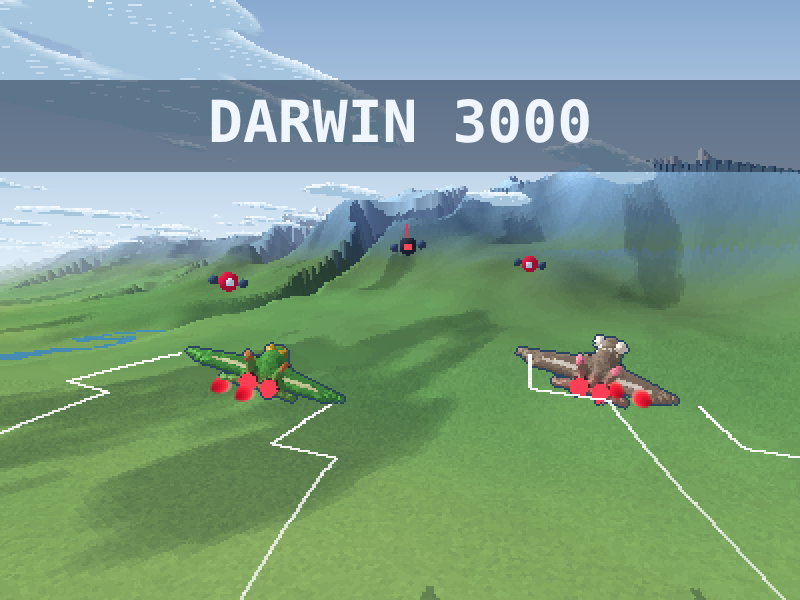
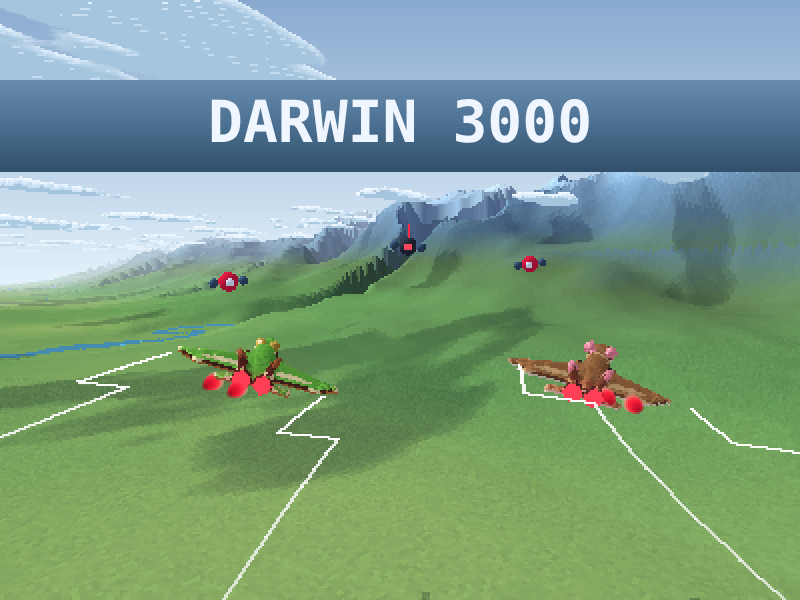
UI en gradientes azules, sin contornos; naves con los colores de los retratos

diff --git a/game.js b/game.js
@@ -319,27 +319,37 @@ const MATERIALS = [
   [58, 44, 34, 150, 122, 92],
 ];
 const NMAT = MATERIALS.length;
-// The flyers' own colours for body, markings, nose, eyes and engines: Darwin's frog is leaf
-// green with a brown snout and golden eyes; the monito is grey-brown and cream, with a pink
-// nose and black eyes.
+// The flyers' own colours, the same as their portraits': back, the line along its edge, trim,
+// eyes, engines, (the nozzles keep their glow,) the stripe down the side, and the belly.
+// Darwin's frog has a leaf-green back edged in cream, a dark brown stripe, an orange-brown
+// belly and golden eyes; the monito is brown with a tan edge, darker sides, a cream belly,
+// pink ears and nose, and black eyes.
 const SKINS = [
   [
-    [16, 50, 28, 104, 196, 86],
-    [118, 128, 84, 240, 244, 186],
-    [78, 42, 24, 196, 124, 70],
-    [30, 22, 8, 236, 186, 60],
-    [8, 14, 12, 52, 70, 56],
+    [34, 84, 30, 118, 196, 72],
+    [124, 118, 86, 236, 228, 180],
+    [72, 38, 22, 160, 92, 50],
+    [60, 40, 10, 232, 190, 84],
+    [20, 12, 10, 84, 46, 32],
+    0,
+    [34, 18, 14, 84, 46, 32],
+    [92, 52, 28, 206, 134, 72],
   ],
   [
-    [52, 42, 38, 182, 160, 138],
-    [132, 120, 110, 252, 246, 234],
-    [150, 64, 88, 255, 156, 176],
+    [72, 44, 28, 176, 122, 76],
+    [104, 80, 56, 216, 176, 126],
+    [128, 64, 84, 244, 150, 170],
     [4, 4, 8, 60, 60, 80],
-    [10, 10, 14, 64, 60, 66],
+    [14, 10, 10, 70, 50, 46],
+    0,
+    [50, 30, 20, 122, 78, 50],
+    [126, 118, 108, 248, 240, 224],
   ],
 ];
 const FIRE = 7;
 const MUD = 8;
+const SIDE = 7; // on a flyer these two are its stripe and its belly instead
+const BELLY = 8;
 const GLINT = [0, 4, 5, 6, 14, 3, 0, 0, 1]; // how strongly each catches a highlight
 const NLIT = 16;
 const NLV = 24;
@@ -624,14 +634,14 @@ function partAt(x, y, z, who) {
   const d = Math.abs(x);
   if (who) {
     if (inEll(d - 1.6, y - 8.5, z - 6.4, 1.3, 1.7, 1.3)) return GLASS; // eyes
-    if (inEll(d - 2.9, y - 13.5, z - 8.3, 1.5, 0.7, 1.6)) return PLUME; // ears
+    if (inEll(d - 2.9, y - 13.5, z - 8.3, 1.5, 0.7, 1.6)) return HEAD; // ears
     if (inEll(x, y - 2.4, z - 5, 0.9, 1.4, 0.8)) return HEAD; // nose
     if (inEll(x, y - 8.5, z - 5.2, 3.2, 6.2, 2.9)) return BODY; // head
     if (inEll(x, y - 42, z - 6.6, 1.3, 6.5, 1.2)) return BODY; // tail
     if (inEll(x, y - 16, z - 5, 3.2, 1.5, 2.9)) return PLUME; // collar
   } else {
     if (inEll(d - 1.8, y - 13.5, z - 7.1, 1.3, 2.1, 1.25)) return GLASS; // eyes
-    if (inEll(x, y - 4.5, z - 5, 1.25, 6.4, 1.15)) return HEAD; // snout
+    if (inEll(x, y - 4.5, z - 5, 1.25, 6.4, 1.15)) return BODY; // snout
   }
   if (inEll(x, y - 23, z - 5, 3.4, 21, 2.9)) return BODY;
   if (d > 3.4 && d < 5.6 && y > 18.5 && y < 23.5 && z > 2.5 && z < 5.5) return y < 19.5 ? ENGINE : BODY; // air intakes
@@ -730,7 +740,10 @@ function buildModel(who) {
         b.push(MPJ - y);
         c.push(z - MPK);
         w.push(y < 39 && z < 6 ? Math.max(0, Math.abs(x) - WING_ROOT) : 0);
-        col.push(v);
+        // the body is coloured like the animal: its back on what faces up, then the pale line,
+        // the stripe down its sides, and its belly underneath
+        const up = l < 0.5 ? 1 : nz / l;
+        col.push(v - BODY ? v : up > 0.5 ? BODY : up > 0.28 ? PLUME : up > -0.3 ? SIDE : BELLY);
         ni.push(q);
         ao.push(share > 0.5 ? 1 - Math.min(0.5, (share - 0.5) * 1.6) : 1 + Math.min(0.14, (0.5 - share) * 0.4));
         hot.push(Math.max(0, 1 - Math.hypot(Math.abs(x) - 3, y - 47, z - 4.5) / 9)); // how close to a burner: the fire lights it
@@ -1727,8 +1740,6 @@ const ZB = new Float32Array(BW * BH); // depth of what each pixel shows
 const PC = new Uint32Array(BW * BH); // a see-through cloud waiting over a pixel: its colour …
 const PA = new Uint8Array(BW * BH); // … and how much of it shows
 const YB = new Int16Array(BW); // per column: the ground has filled everything from here down
-const STAMP = new Uint32Array(BW * BH); // which flyer drew a pixel last (for outlines)
-let stampId = 0;
 const SJ = new Float32Array(16 * 6); // shadow casters this frame
 let nSJ = 0;
 let invMs = 1;
@@ -2061,7 +2072,7 @@ function drawTrails(f) {
 // square, nearest wins. Each is lit as part of a solid: by the sun, from the way its surface
 // faces; darker in the creases and wherever another part of the flyer stands in its light;
 // with a glint where the sun bounces towards the camera; and red from its own burners, near
-// them. Then a dark outline, so it reads over any ground.
+// them.
 const LV = new Float32Array(4096); // the sun on each direction a surface can face …
 const SP = new Float32Array(4096); // … and the glint there
 const STEP = new Float32Array(9);
@@ -2069,12 +2080,8 @@ let fx0 = 0;
 let fy0 = 0;
 let fv0 = 0;
 let fHalf = 0.5;
-let bx0 = 0;
-let bx1 = 0;
-let by0 = 0;
-let by1 = 0;
 
-function plotVoxel(ma, mb, mc, colour, mark) {
+function plotVoxel(ma, mb, mc, colour) {
   const sx = fx0 + ma * STEP[0] + mb * STEP[3] + mc * STEP[6];
   const sy = fy0 + ma * STEP[1] + mb * STEP[4] + mc * STEP[7];
   const dep = fv0 + ma * STEP[2] + mb * STEP[5] + mc * STEP[8];
@@ -2094,13 +2101,8 @@ function plotVoxel(ma, mb, mc, colour, mark) {
       if (ZB[p] <= dep) continue;
       ZB[p] = dep;
       FB[p] = colour;
-      STAMP[p] = mark;
     }
   }
-  if (xa < bx0) bx0 = xa;
-  if (xb > bx1) bx1 = xb;
-  if (ya < by0) by0 = ya;
-  if (yb > by1) by1 = yb;
 }
 
 // Which of a flyer's voxels have another part of it between them and the sun. The light's
@@ -2171,11 +2173,6 @@ function drawFlyer(f) {
     SP[q] = h > 0 ? Math.pow(h, 20) : 0;
   }
 
-  const id = ++stampId;
-  bx0 = BW;
-  bx1 = -1;
-  by0 = BH;
-  by1 = -1;
   const shade = f.shade;
   const flex = f.flex;
   const skin = (f.id + 1) * NMAT;
@@ -2186,22 +2183,7 @@ function drawFlyer(f) {
     let l = shade[i] ? (0.36 + 0.1 * LV[q]) * ao[i] * 15 : (0.36 + 0.64 * LV[q]) * ao[i] * 15 + SP[q] * GLINT[m];
     if (l > NLV - 1) l = NLV - 1;
     const c = JPAL[(skin + m) * NLV + (l | 0)];
-    plotVoxel(ma[i], mb[i], mc[i] + mw[i] * flex, hot[i] ? mix(c, colRed, (hot[i] * fire) | 0) : c, id);
-  }
-
-  // outline: any free pixel that touches the flyer
-  const ox0 = Math.max(1, bx0 - 1);
-  const oy0 = Math.max(1, by0 - 1);
-  const ox1 = Math.min(BW - 1, bx1 + 1);
-  const oy1 = Math.min(BH - 1, by1 + 1);
-  for (let y = oy0; y < oy1; y++) {
-    for (let x = ox0, p = y * BW + ox0; x < ox1; x++, p++) {
-      if (STAMP[p] === id || ZB[p] < fv0 - 20) continue;
-      if (STAMP[p - 1] === id || STAMP[p + 1] === id || STAMP[p - BW] === id || STAMP[p + BW] === id) {
-        FB[p] = colOutline;
-        if (ZB[p] > fv0) ZB[p] = fv0;
-      }
-    }
+    plotVoxel(ma[i], mb[i], mc[i] + mw[i] * flex, hot[i] ? mix(c, colRed, (hot[i] * fire) | 0) : c);
   }
 }
 
@@ -2477,16 +2459,15 @@ function glitch(amount) {
 
 const INK = pack(240, 246, 255);
 const DIM = pack(168, 200, 224);
-const PANEL = pack(16, 28, 48);
 const GOLD = pack(255, 214, 90);
 const WATER = pack(110, 180, 230);
 
-function box(x, y, w, h, colour, alpha) {
+function box(x, y, w, h, colour) {
   const x0 = Math.max(0, x | 0);
   const x1 = Math.min(BW, (x + w) | 0);
   const y1 = Math.min(BH, (y + h) | 0);
   for (let py = Math.max(0, y | 0); py < y1; py++) {
-    for (let p = py * BW + x0, e = py * BW + x1; p < e; p++) FB[p] = alpha ? mix(FB[p], colour, alpha) : colour;
+    for (let p = py * BW + x0, e = py * BW + x1; p < e; p++) FB[p] = colour;
   }
 }
 
@@ -2511,17 +2492,17 @@ function text(str, x, y, colour, size, align) {
   t.setOrigin((align || 0) / 2, 0.12).setPosition(x * PX, y * PX).setVisible(true);
 }
 
-// The crew's portraits, in pixel art, both in profile: Darwin's frog — a leaf-green back with
-// a pale edge, a dark stripe through a golden eye, a snout drawn out to a point — and the
-// monito del monte — big black eyes in a dark ring, round pink ears, a pink nose. Each is 28
-// dots by 24, row after row: a letter is a colour, a dot is nothing, and a number after
-// either repeats it.
+// The crew's portraits, in pixel art, both in profile and with no outline: Darwin's frog — a
+// leaf-green back with a pale edge, a dark stripe through a golden eye, a snout drawn out to a
+// point — and the monito del monte — big black eyes in a dark ring, round pink ears, a pink
+// nose. Each is 28 dots by 24, row after row: a letter is a colour, a dot is nothing, and a
+// number after either repeats it.
 const FACES = [
-  '.61k6.21kl6k5.15klg6l5k4.10klgG6g5l4k2.8kc8Gg10k5.3kB8c8g8k.2kB16c8g.2kb8B5y3B8c.2kb12ywk2yB2o4Bk.2kb12yk3yb2o4k.3kb3Bb4Bb3yk3ybo3k2.4kbBb2Bb6Bby3o3k2.6kb9Bb3o5k.8ko7b3o6k2.9ko2Bo10k3.11ko5Bo4k3.14ko7k3.16k2o7k3.15kN12k2.13kn14k.12kn14k.12kn14k.12',
-  '.4k2Fk2.7k4.11kF5k.5kF4k.9kF2p3F2k.3kF2p2F2k.7kF2p5F2k4Fp4Fk.7kF2p3PpFf6p4Fk.7kF2p2Pt9f3Fk.9kFp2t12f2k.9kF2t10d4f2k.9kFft8dk4df2k.8kF2f2t5dw2k3d2fk.7kF3f7dwk5df2k.6kF3f7dk6d2fk3.4kF3f7dk4Nd4p3k.3kF3f7d2k4d3p3Pk.3kF3f8d5m4P2pk.4kF2f3m16k.5kF2f2m11k4mk.7kf2m15k2.9km14k2.7k6m12k.8kN17k2.8kn19k.7kn19k.7kn19k.7',
+  '.89l6.21lg6l5.15lgG6g5l4.11c8Gg10.9B8c8g8.4B16c8g.3b8B5y3B8c.3b12ywk2yB2o4B.4b12yk3yb2o4.5b3Bb4Bb3yk3ybo3.7bBb2Bb6Bby3o3.9b9Bb3o5.10o7b3o6.12o2Bo10.15o5Bo4.18o7.21o7.19N12.16n14.14n14.14n14.13',
+  '.6F.25F5.7F4.11F2p3F2.5F2p2F2.9F2p5F2.4Fp4F.9F2p3PpFf6p4F.9F2p2Pt9f3F.11Fp2t12f2.11F2t10d4f2.11Fft8dk4df2.10F2f2t5dw2k3d2f.9F3f7dwk5df2.8F3f7dk6d2f.8F3f7dk4d5p3.5F3f7d2k4d3p3P.5F3f8d5m4P2p.6F2f3m16.7F2f2m11F4m.9f2m15.12m14.15m12.10N17.11n19.9n19.9n19.8',
 ].map((s) => s.replace(/(\D)(\d+)/g, (m, c, n) => c.repeat(n)));
 const FACE_INK = 'BFGNPbcdfgklmnoptwy';
[2 lines of base64/hex data omitted]
 // `flip` turns it to face left
 function face(who, x, y, size, flip) {
   for (let i = 0; i < 672; i++) {
@@ -2530,13 +2511,13 @@ function face(who, x, y, size, flip) {
   }
 }
 
+// A panel: CÓNDOR's blues, lighter at the top and running down to navy.
 function plate(x, y, w, h) {
-  box(x, y, w, h, PANEL, 150);
-  box(x, y, w, 1, DIM, 110);
+  for (let i = 0; i < h; i++) box(x, y + i, w, 1, PAL[26 - (((i * 23) / h) | 0)]);
 }
 
 function gauge(x, y, w, share, colour) {
-  box(x, y, w, 5, PANEL, 210);
+  box(x, y, w, 5, PAL[0]);
   box(x, y, w * clamp(share, 0, 1), 5, colour);
 }
 
@@ -2576,9 +2557,7 @@ function mark(x, y, z, colour) {
 function radar(cx, cy, R) {
   for (let y = -R; y <= R; y++) {
     const w = Math.round(Math.sqrt(R * R - y * y));
-    box(cx - w, cy + y, 2 * w, 1, PANEL, 150);
-    box(cx - w, cy + y, 2, 1, DIM, 200);
-    box(cx + w - 2, cy + y, 2, 1, DIM, 200);
+    box(cx - w, cy + y, 2 * w, 1, PAL[14 - ((y * 12) / R) | 0]);
   }
   const sx = Math.sin(sq.yaw);
   const sy = -Math.cos(sq.yaw);
@@ -2607,17 +2586,21 @@ function drawHud() {
   for (const t of LABELS) t.setVisible(false);
   labelN = 0;
   if (G.mode !== PLAY) {
-    box(0, 84, BW, 46, PANEL, 120);
+    plate(0, 84, BW, 76);
     text(G.mode === OVER ? 'FIN DEL VUELO' : 'DARWIN 3000', CXS, 92, INK, 4, 1);
-    if (G.mode === OVER) text('PUNTAJE ' + G.score, CXS, 144, INK, 2, 1);
-    text('AÑO 3000 · DRONES DE IA ENEMIGA ATACAN CHILE', CXS, 136, INK, 1, 1);
-    text('RANITAS Y MONITOS SÚPER INTELIGENTES PILOTEAN LA DEFENSA', CXS, 147, DIM, 1, 1);
-    face(0, 10, 158, 3);
-    face(1, BW - 94, 158, 3, 1);
-    text('DARWIN', 52, 230, GOLD, 1, 1);
-    text('MONITO', BW - 52, 230, GOLD, 1, 1);
-    if ((now * 2) & 1) text('START 1: UN JUGADOR · START 2: DOS', CXS, 240, INK, 2, 1);
-    text('RÉCORD ' + G.best, CXS, 258, DIM, 1, 1);
+    if (G.mode === OVER) text('PUNTAJE ' + G.score, CXS, 127, GOLD, 2, 1);
+    else {
+      text('AÑO 3000 · DRONES DE IA ENEMIGA ATACAN CHILE', CXS, 127, INK, 1, 1);
+      text('RANITAS Y MONITOS SÚPER INTELIGENTES PILOTEAN LA DEFENSA', CXS, 138, DIM, 1, 1);
+    }
+    text('RÉCORD ' + G.best, CXS, 149, DIM, 1, 1);
+    plate(4, 164, 92, 84);
+    plate(BW - 96, 164, 92, 84);
+    face(0, 8, 164, 3);
+    face(1, BW - 92, 164, 3, 1);
+    text('DARWIN', 50, 237, GOLD, 1, 1);
+    text('MONITO', BW - 50, 237, GOLD, 1, 1);
+    if ((now * 2) & 1) text('START 1: UN JUGADOR · START 2: DOS', CXS, 249, INK, 2, 1);
     plate(0, BH - 36, BW, 36);
     text('PALANCA VOLAR · B1 DISPARO · B2/B3 TONEL · B4 IMPULSO · B5 AGUA', CXS, BH - 27, INK, 1, 1);
     text('VUELA BAJO · APAGA INCENDIOS · RESCATA GENTE · DERRIBA DRONES', CXS, BH - 13, DIM, 1, 1);
@@ -2632,10 +2615,10 @@ function drawHud() {
   if (goal) mark(goal.x, goal.y, goal.z + 4, folk[0] ? INK : colFire);
   if (G.shield < 30 && (now * 4) & 1) {
     // little shield left: the frame flashes
-    box(0, 0, BW, 3, colRed, 160);
-    box(0, BH - 3, BW, 3, colRed, 160);
-    box(0, 0, 3, BH, colRed, 160);
-    box(BW - 3, 0, 3, BH, colRed, 160);
+    box(0, 0, BW, 3, colRed);
+    box(0, BH - 3, BW, 3, colRed);
+    box(0, 0, 3, BH, colRed);
+    box(BW - 3, 0, 3, BH, colRed);
   }
 
   // score, the multiplier, and how long the condor has kept low
@@ -2652,10 +2635,10 @@ function drawHud() {
   text('ESCUDO', rx + 4, 8, DIM);
   gauge(rx + 50, 9, 56, G.shield / 100, G.shield < 30 ? colRed : INK);
   text('IMPULSO', rx + 4, 20, DIM);
-  box(rx + 50, 21, 56, 5, PANEL, 210);
+  box(rx + 50, 21, 56, 5, PAL[0]);
   crew.forEach((f, i) => box(rx + 50, 21 + i * 3, 0.56 * f.stam, crew[1] ? 2 : 5, i ? GOLD : INK)); // one bar each
   text('AGUA', rx + 4, 32, DIM);
-  for (let i = 0; i < 3; i++) box(rx + 50 + i * 12, 33, 9, 5, WATER, i < G.water ? 0 : 60);
+  for (let i = 0; i < 3; i++) box(rx + 50 + i * 12, 33, 9, 5, i < G.water ? WATER : PAL[0]);
 
   // height: the ground below (rising from the foot of the scale) and the condor above it
   const foot = BH - 10;
@@ -2663,10 +2646,10 @@ function drawHud() {
   plate(4, BH - 80, 36, 76);
   text('ALT', 8, BH - 76, DIM);
   text((G.agl * 10) | 0, 8, BH - 66, INK);
-  box(20, foot - 44, 4, 44, PANEL, 220);
+  box(20, foot - 44, 4, 44, PAL[0]);
   box(20, rung(G.gnd), 4, foot - rung(G.gnd), DIM);
-  box(16, rung(CA), 12, 1, DIM, 140);
-  box(16, rung(STRATO), 12, 1, DIM, 140);
+  box(16, rung(CA), 12, 1, DIM);
+  box(16, rung(STRATO), 12, 1, DIM);
   crew.forEach((f, i) => box(14, rung(f.z) - 1, 16, 2, i ? GOLD : INK));
 
   radar(BW - 32, BH - 32, 27);
@@ -2677,17 +2660,18 @@ function drawHud() {
 
   // what is going on
   if (G.hacked) {
-    box(0, 58, BW, 56, PANEL, 130);
+    plate(CXS - 100, 58, 200, 56);
     text('¡HACKEADO!', CXS, 66, colRed, 3, 1);
     text('AGITA LA PALANCA Y MACHACA B1', CXS, 92, INK, 1, 1);
     gauge(CXS - 80, 103, 160, G.purge, INK);
   } else if (G.chan > 0) {
-    box(0, 62, BW, 30, PANEL, 130);
+    plate(CXS - 150, 62, 300, 30);
     text('HACKEO ENTRANTE: TONEL O DISPARA', CXS, 67, colRed, 2, 1);
     gauge(CXS - 80, 84, 160, G.chan, colRed);
   } else if (G.msgT > 0) {
     const size = G.msg.length > 30 ? 1 : 2;
-    box(0, 62, BW, 10 + size * 8, PANEL, 110);
+    const w = G.msg.length * size * 4.4 + 14;
+    plate(CXS - w / 2, 62, w, 10 + size * 8);
     text(G.msg, CXS, 68, INK, size, 1);
   }
   const far = goal
